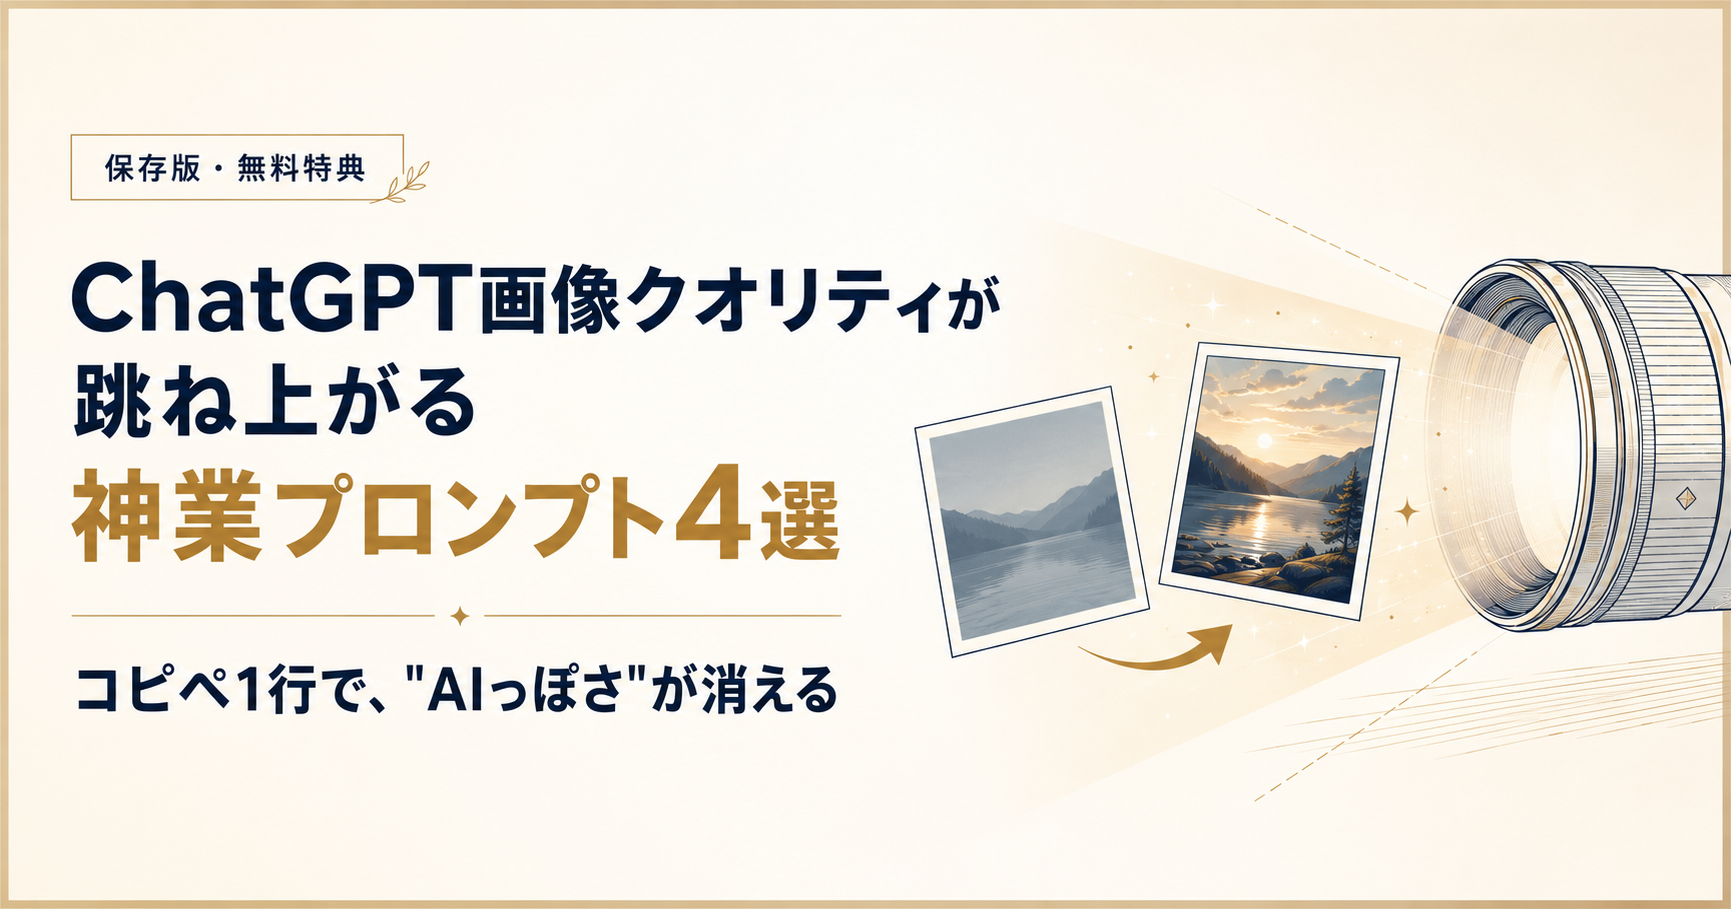
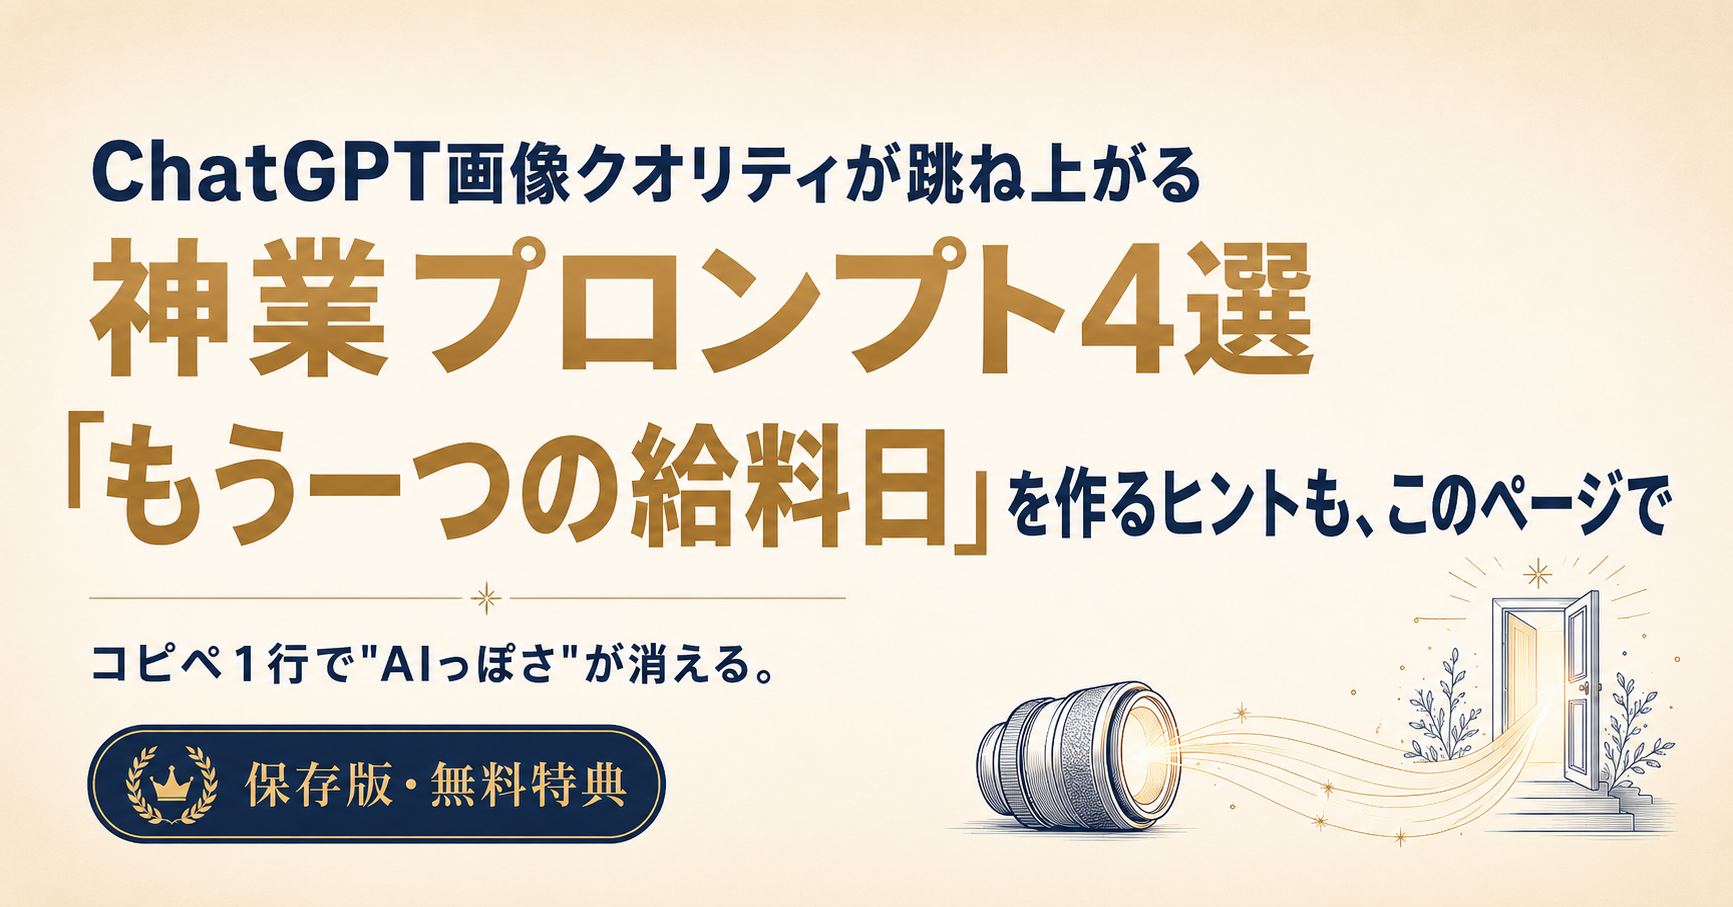
Add files via upload

diff --git a/index042.html b/index042.html
@@ -7,7 +7,7 @@
 <meta name="viewport" content="width=device-width, initial-scale=1.0">
 <title>ChatGPT画像クオリティが跳ね上がる 神業プロンプト4選｜無料特典</title>
 <meta property="og:title" content="ChatGPT画像クオリティが跳ね上がる 神業プロンプト4選">
-<meta property="og:description" content="コピペ1行で、&quot;AIっぽさ&quot;が消える。保存版・無料特典。">
+<meta property="og:description" content="コピペ1行で&quot;AIっぽさ&quot;が消える。&quot;もう一つの給料日&quot;を作るヒントも、このページで。保存版・無料特典。">
 <meta property="og:image" content="https://instaakiai40s.github.io/header042.PNG">
 <meta property="og:type" content="website">
 <style>
@@ -395,7 +395,7 @@ footer{
 </head>
 <body>
 
-<h1 class="visually-hidden">ChatGPT画像クオリティが跳ね上がる 神業プロンプト4選｜コピペ1行で、"AIっぽさ"が消える｜保存版・無料特典</h1>
+<h1 class="visually-hidden">ChatGPT画像クオリティが跳ね上がる 神業プロンプト4選｜コピペ1行で"AIっぽさ"が消える。"もう一つの給料日"を作るヒントも、このページで｜保存版・無料特典</h1>
 
 <!-- ===== ゾーン1 ===== -->
 <header class="hero">
@@ -403,7 +403,8 @@ footer{
   <div class="hero-text" id="heroText">
     <span class="badge">保存版・無料特典</span>
     <h2>ChatGPT画像クオリティが<br>跳ね上がる <span class="gold">神業プロンプト4選</span></h2>
-    <p>コピペ1行で、"AIっぽさ"が消える</p>
+    <h2 style="margin-top:6px;"><span class="gold">"もう一つの給料日"</span>を作る<br>ヒントも、このページで</h2>
+    <p>コピペ1行で"AIっぽさ"が消える。</p>
   </div>
 </header>
 